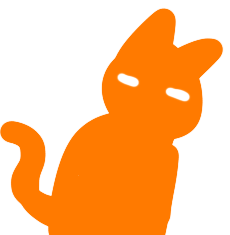
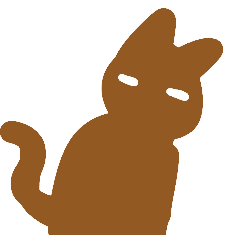
visual + add projects
tags optional

tags optional

tags optional

diff --git a/src/styles/global.css b/src/styles/global.css
@@ -35,12 +35,12 @@
 
 /* Dark — default */
 :root {
-	--c-page: #454545;
-	--c-raised: #515151;
+	--c-page: #3c3c3c;
+	--c-raised: #4a4a4a;
 	--c-edge: #6b6b6b;
 	--c-ink: whitesmoke;
 	--c-ink-muted: #b8b8b8;
-	--c-accent: #f2b134;
+	--c-accent: #f29034;
 	--c-outline: #ffffff; /* hover halo, was hardcoded white */
 	color-scheme: dark;
 }
@@ -53,7 +53,7 @@
 		--c-edge: #cfcfcf;
 		--c-ink: #2a2a2a;
 		--c-ink-muted: #5c5c5c;
-		--c-accent: #9a6410;
+		--c-accent: #9a5510;
 		--c-outline: #000000;
 		color-scheme: light;
 	}
@@ -65,18 +65,18 @@
 	--c-edge: #cfcfcf;
 	--c-ink: #2a2a2a;
 	--c-ink-muted: #5c5c5c;
-	--c-accent: #9a6410;
+	--c-accent: #9a5510;
 	--c-outline: #000000;
 	color-scheme: light;
 }
 
 :root[data-theme='dark'] {
-	--c-page: #454545;
-	--c-raised: #515151;
+	--c-page: #3c3c3c;
+	--c-raised: #4a4a4a;
 	--c-edge: #6b6b6b;
 	--c-ink: whitesmoke;
 	--c-ink-muted: #b8b8b8;
-	--c-accent: #f2b134;
+	--c-accent: #f29034;
 	--c-outline: #ffffff;
 	color-scheme: dark;
 }

diff --git a/src/content.config.ts b/src/content.config.ts
@@ -9,6 +9,9 @@ const blog = defineCollection({
 	schema: ({ image }) =>
 		z.object({
 			title: z.string(),
+			subtitle: z.string().optional(),
+			author: z.string().optional(),
+			tags: z.array(z.string()).default([]).optional(),
 			description: z.string(),
 			// Transform string to Date object
 			pubDate: z.coerce.date(),

diff --git a/src/content/blog/first-post.md b/src/content/blog/first-post.md
@@ -1,16 +1,14 @@
 ---
 title: 'First post'
-description: 'Lorem ipsum dolor sit amet'
-pubDate: 'Jul 08 2022'
-heroImage: '../../assets/blog-placeholder-3.jpg'
+subtitle: 'gonna put this all under one commit with title "style 3" or something'
+author: 'esu'
+tags: ['katomatik-web']
+description: 'Things added to website in one commit'
+pubDate: 'Jul 21 2026'
+heroImage: '../../assets/blog-titlecard.png'
 ---
-
-Lorem ipsum dolor sit amet, consectetur adipiscing elit, sed do eiusmod tempor incididunt ut labore et dolore magna aliqua. Vitae ultricies leo integer malesuada nunc vel risus commodo viverra. Adipiscing enim eu turpis egestas pretium. Euismod elementum nisi quis eleifend quam adipiscing. In hac habitasse platea dictumst vestibulum. Sagittis purus sit amet volutpat. Netus et malesuada fames ac turpis egestas. Eget magna fermentum iaculis eu non diam phasellus vestibulum lorem. Varius sit amet mattis vulputate enim. Habitasse platea dictumst quisque sagittis. Integer quis auctor elit sed vulputate mi. Dictumst quisque sagittis purus sit amet.
-
-Morbi tristique senectus et netus. Id semper risus in hendrerit gravida rutrum quisque non tellus. Habitasse platea dictumst quisque sagittis purus sit amet. Tellus molestie nunc non blandit massa. Cursus vitae congue mauris rhoncus. Accumsan tortor posuere ac ut. Fringilla urna porttitor rhoncus dolor. Elit ullamcorper dignissim cras tincidunt lobortis. In cursus turpis massa tincidunt dui ut ornare lectus. Integer feugiat scelerisque varius morbi enim nunc. Bibendum neque egestas congue quisque egestas diam. Cras ornare arcu dui vivamus arcu felis bibendum. Dignissim suspendisse in est ante in nibh mauris. Sed tempus urna et pharetra pharetra massa massa ultricies mi.
-
-Mollis nunc sed id semper risus in. Convallis a cras semper auctor neque. Diam sit amet nisl suscipit. Lacus viverra vitae congue eu consequat ac felis donec. Egestas integer eget aliquet nibh praesent tristique magna sit amet. Eget magna fermentum iaculis eu non diam. In vitae turpis massa sed elementum. Tristique et egestas quis ipsum suspendisse ultrices. Eget lorem dolor sed viverra ipsum. Vel turpis nunc eget lorem dolor sed viverra. Posuere ac ut consequat semper viverra nam. Laoreet suspendisse interdum consectetur libero id faucibus. Diam phasellus vestibulum lorem sed risus ultricies tristique. Rhoncus dolor purus non enim praesent elementum facilisis. Ultrices tincidunt arcu non sodales neque. Tempus egestas sed sed risus pretium quam vulputate. Viverra suspendisse potenti nullam ac tortor vitae purus faucibus ornare. Fringilla urna porttitor rhoncus dolor purus non. Amet dictum sit amet justo donec enim.
-
-Mattis ullamcorper velit sed ullamcorper morbi tincidunt. Tortor posuere ac ut consequat semper viverra. Tellus mauris a diam maecenas sed enim ut sem viverra. Venenatis urna cursus eget nunc scelerisque viverra mauris in. Arcu ac tortor dignissim convallis aenean et tortor at. Curabitur gravida arcu ac tortor dignissim convallis aenean et tortor. Egestas tellus rutrum tellus pellentesque eu. Fusce ut placerat orci nulla pellentesque dignissim enim sit amet. Ut enim blandit volutpat maecenas volutpat blandit aliquam etiam. Id donec ultrices tincidunt arcu. Id cursus metus aliquam eleifend mi.
-
-Tempus quam pellentesque nec nam aliquam sem. Risus at ultrices mi tempus imperdiet. Id porta nibh venenatis cras sed felis eget velit. Ipsum a arcu cursus vitae. Facilisis magna etiam tempor orci eu lobortis elementum. Tincidunt dui ut ornare lectus sit. Quisque non tellus orci ac. Blandit libero volutpat sed cras. Nec tincidunt praesent semper feugiat nibh sed pulvinar proin gravida. Egestas integer eget aliquet nibh praesent tristique magna.
+- made cat in navbar reactive to window size and theme
+- made website slightly darker and oranger
+- edited blog format to add more options (subtitle, tag, author)
+- added tag filter to projects + blog
+- added katobook & chrome plugin as projects (no description)

diff --git a/src/content/projects/inline translator.md b/src/content/projects/inline translator.md
@@ -1,0 +1,9 @@
+---
+title: 'inline translator'
+description: 'Chrome plugin for in-context translation and simplification on any website.'
+startDate: 2026-07-19
+status: 'active'
+tags: ['chrome']
+draft: false
+---
+

diff --git a/src/content/projects/katobook.md b/src/content/projects/katobook.md
@@ -1,0 +1,9 @@
+---
+title: 'katobook'
+description: 'Two language e-reader with AI and flashcards.'
+startDate: 2024-10-31
+status: 'paused'
+tags: ['vue', 'aws']
+draft: false
+---
+

diff --git a/src/content/blog/markdown-style-guide.md b/src/content/blog/markdown-style-guide.md
@@ -1,6 +1,7 @@
 ---
 title: 'Markdown Style Guide'
 description: 'Here is a sample of some basic Markdown syntax that can be used when writing Markdown content in Astro.'
+tags: ['resource']
 pubDate: 'Jun 19 2024'
 heroImage: '../../assets/blog-placeholder-1.jpg'
 ---